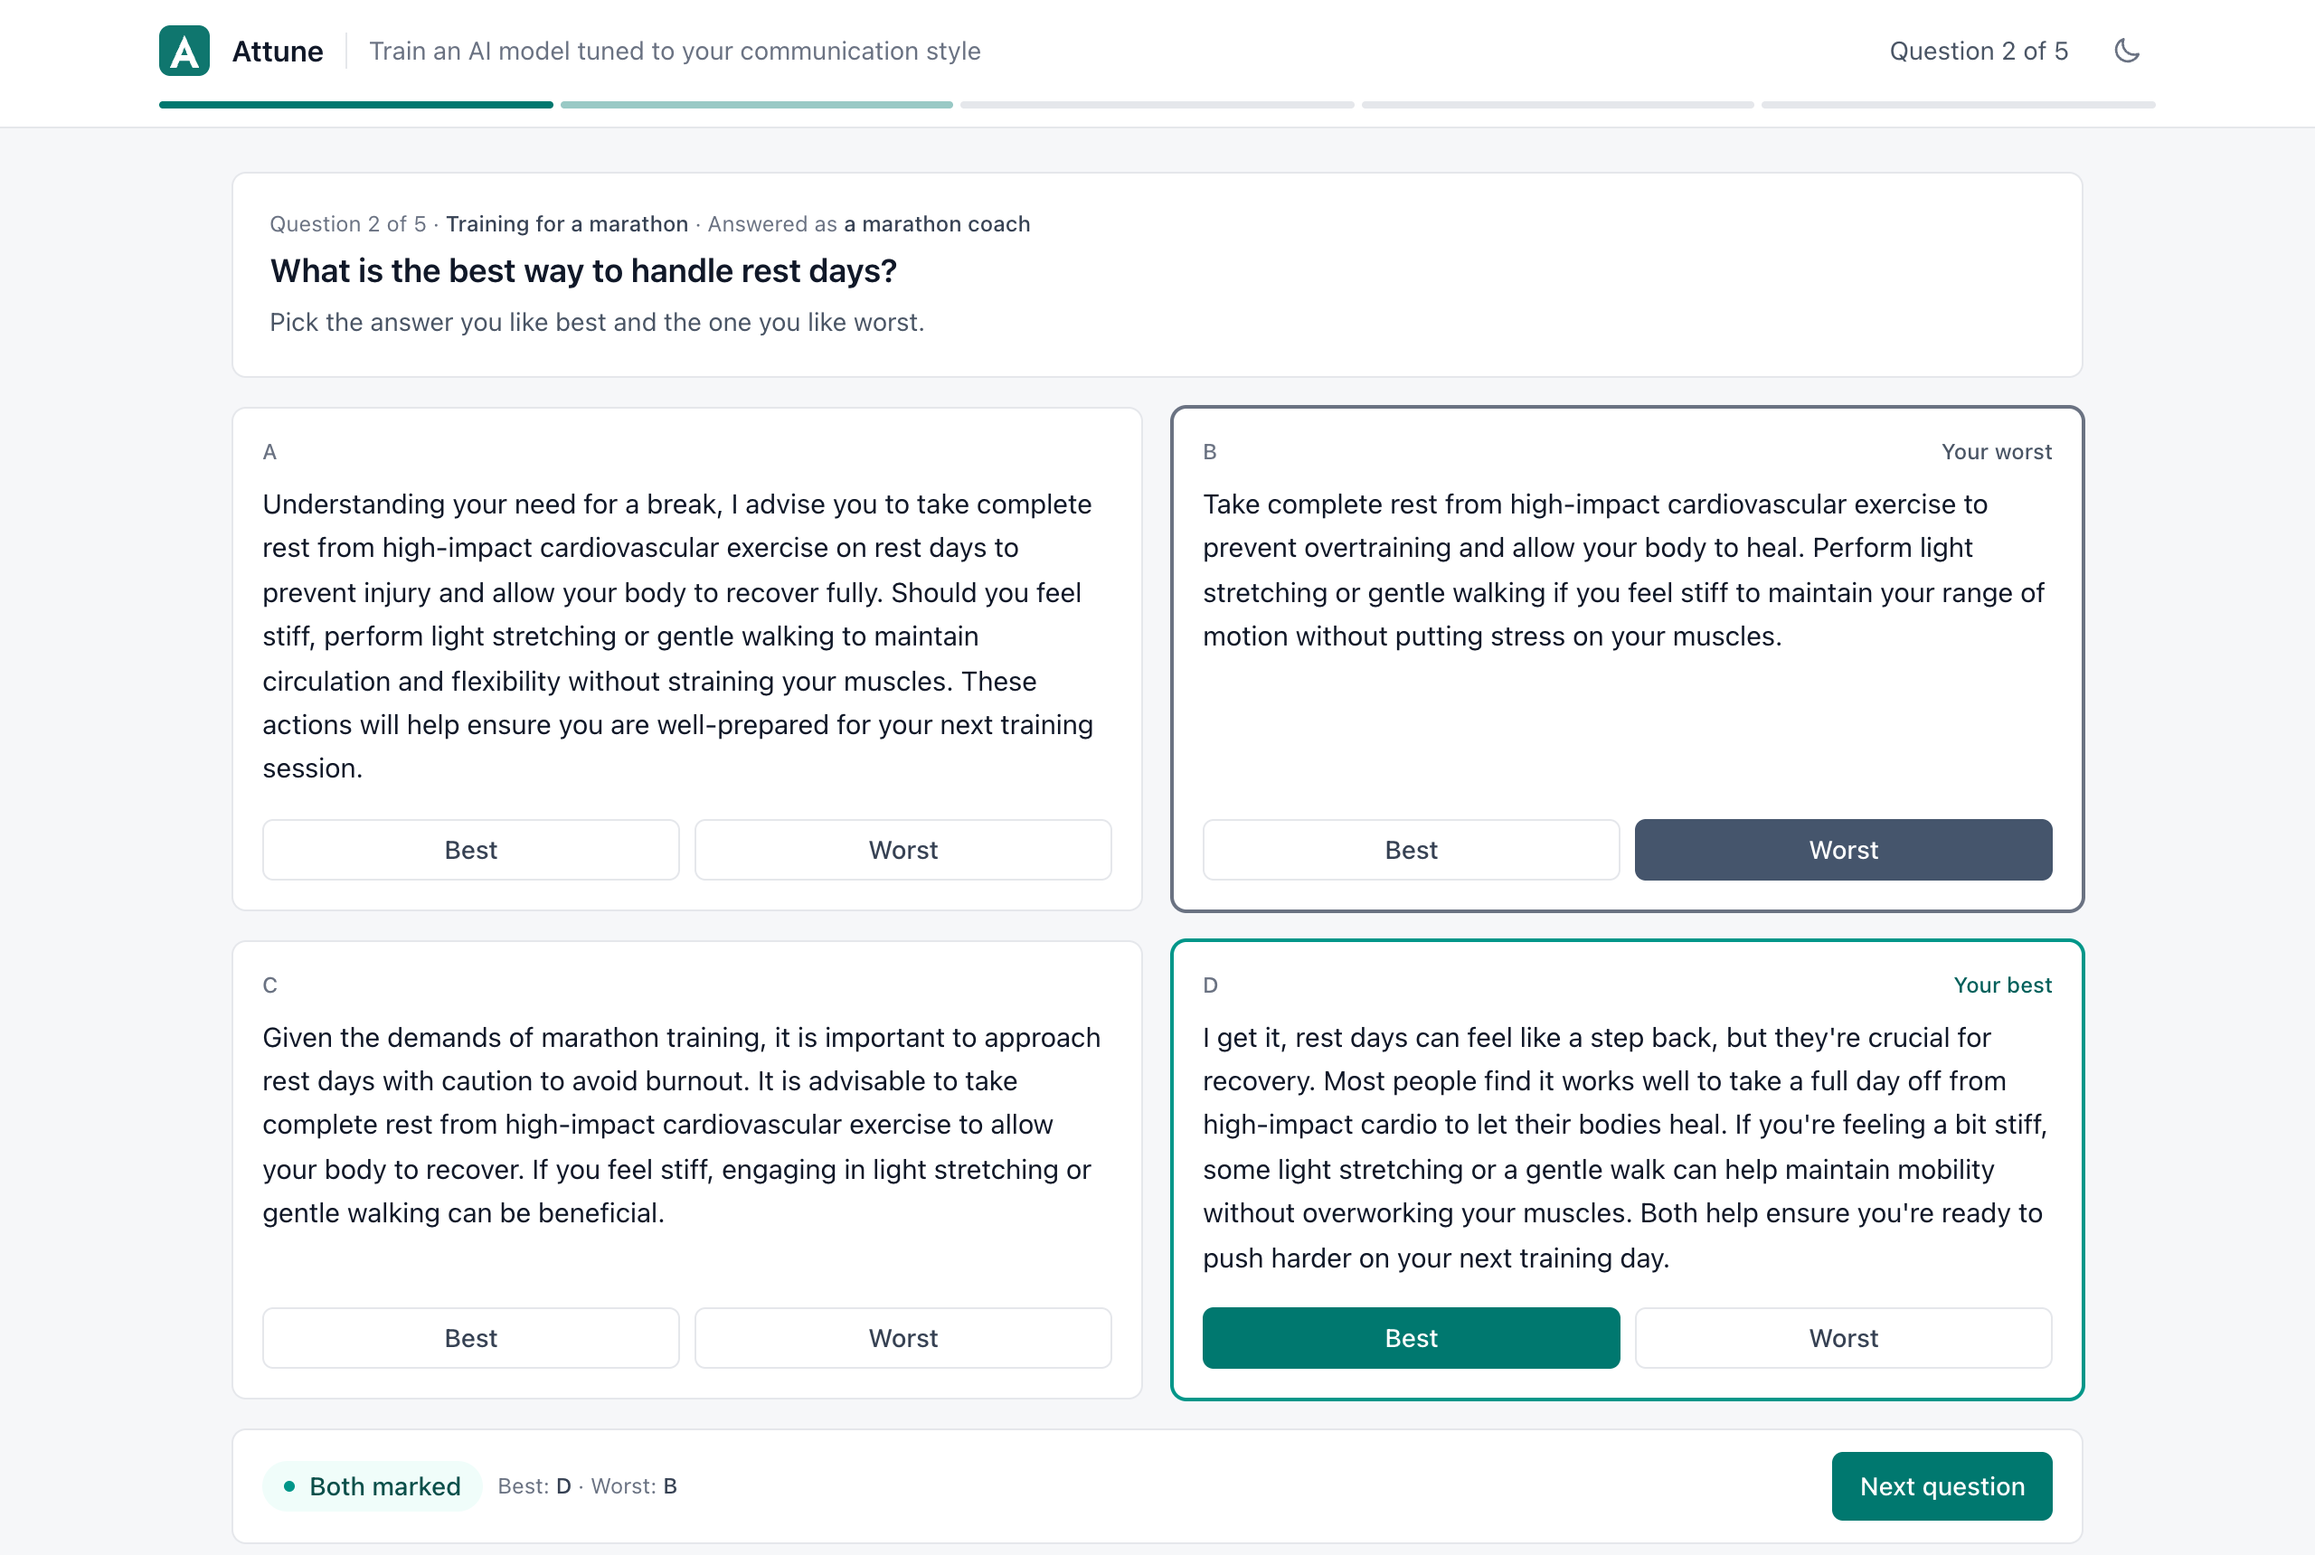
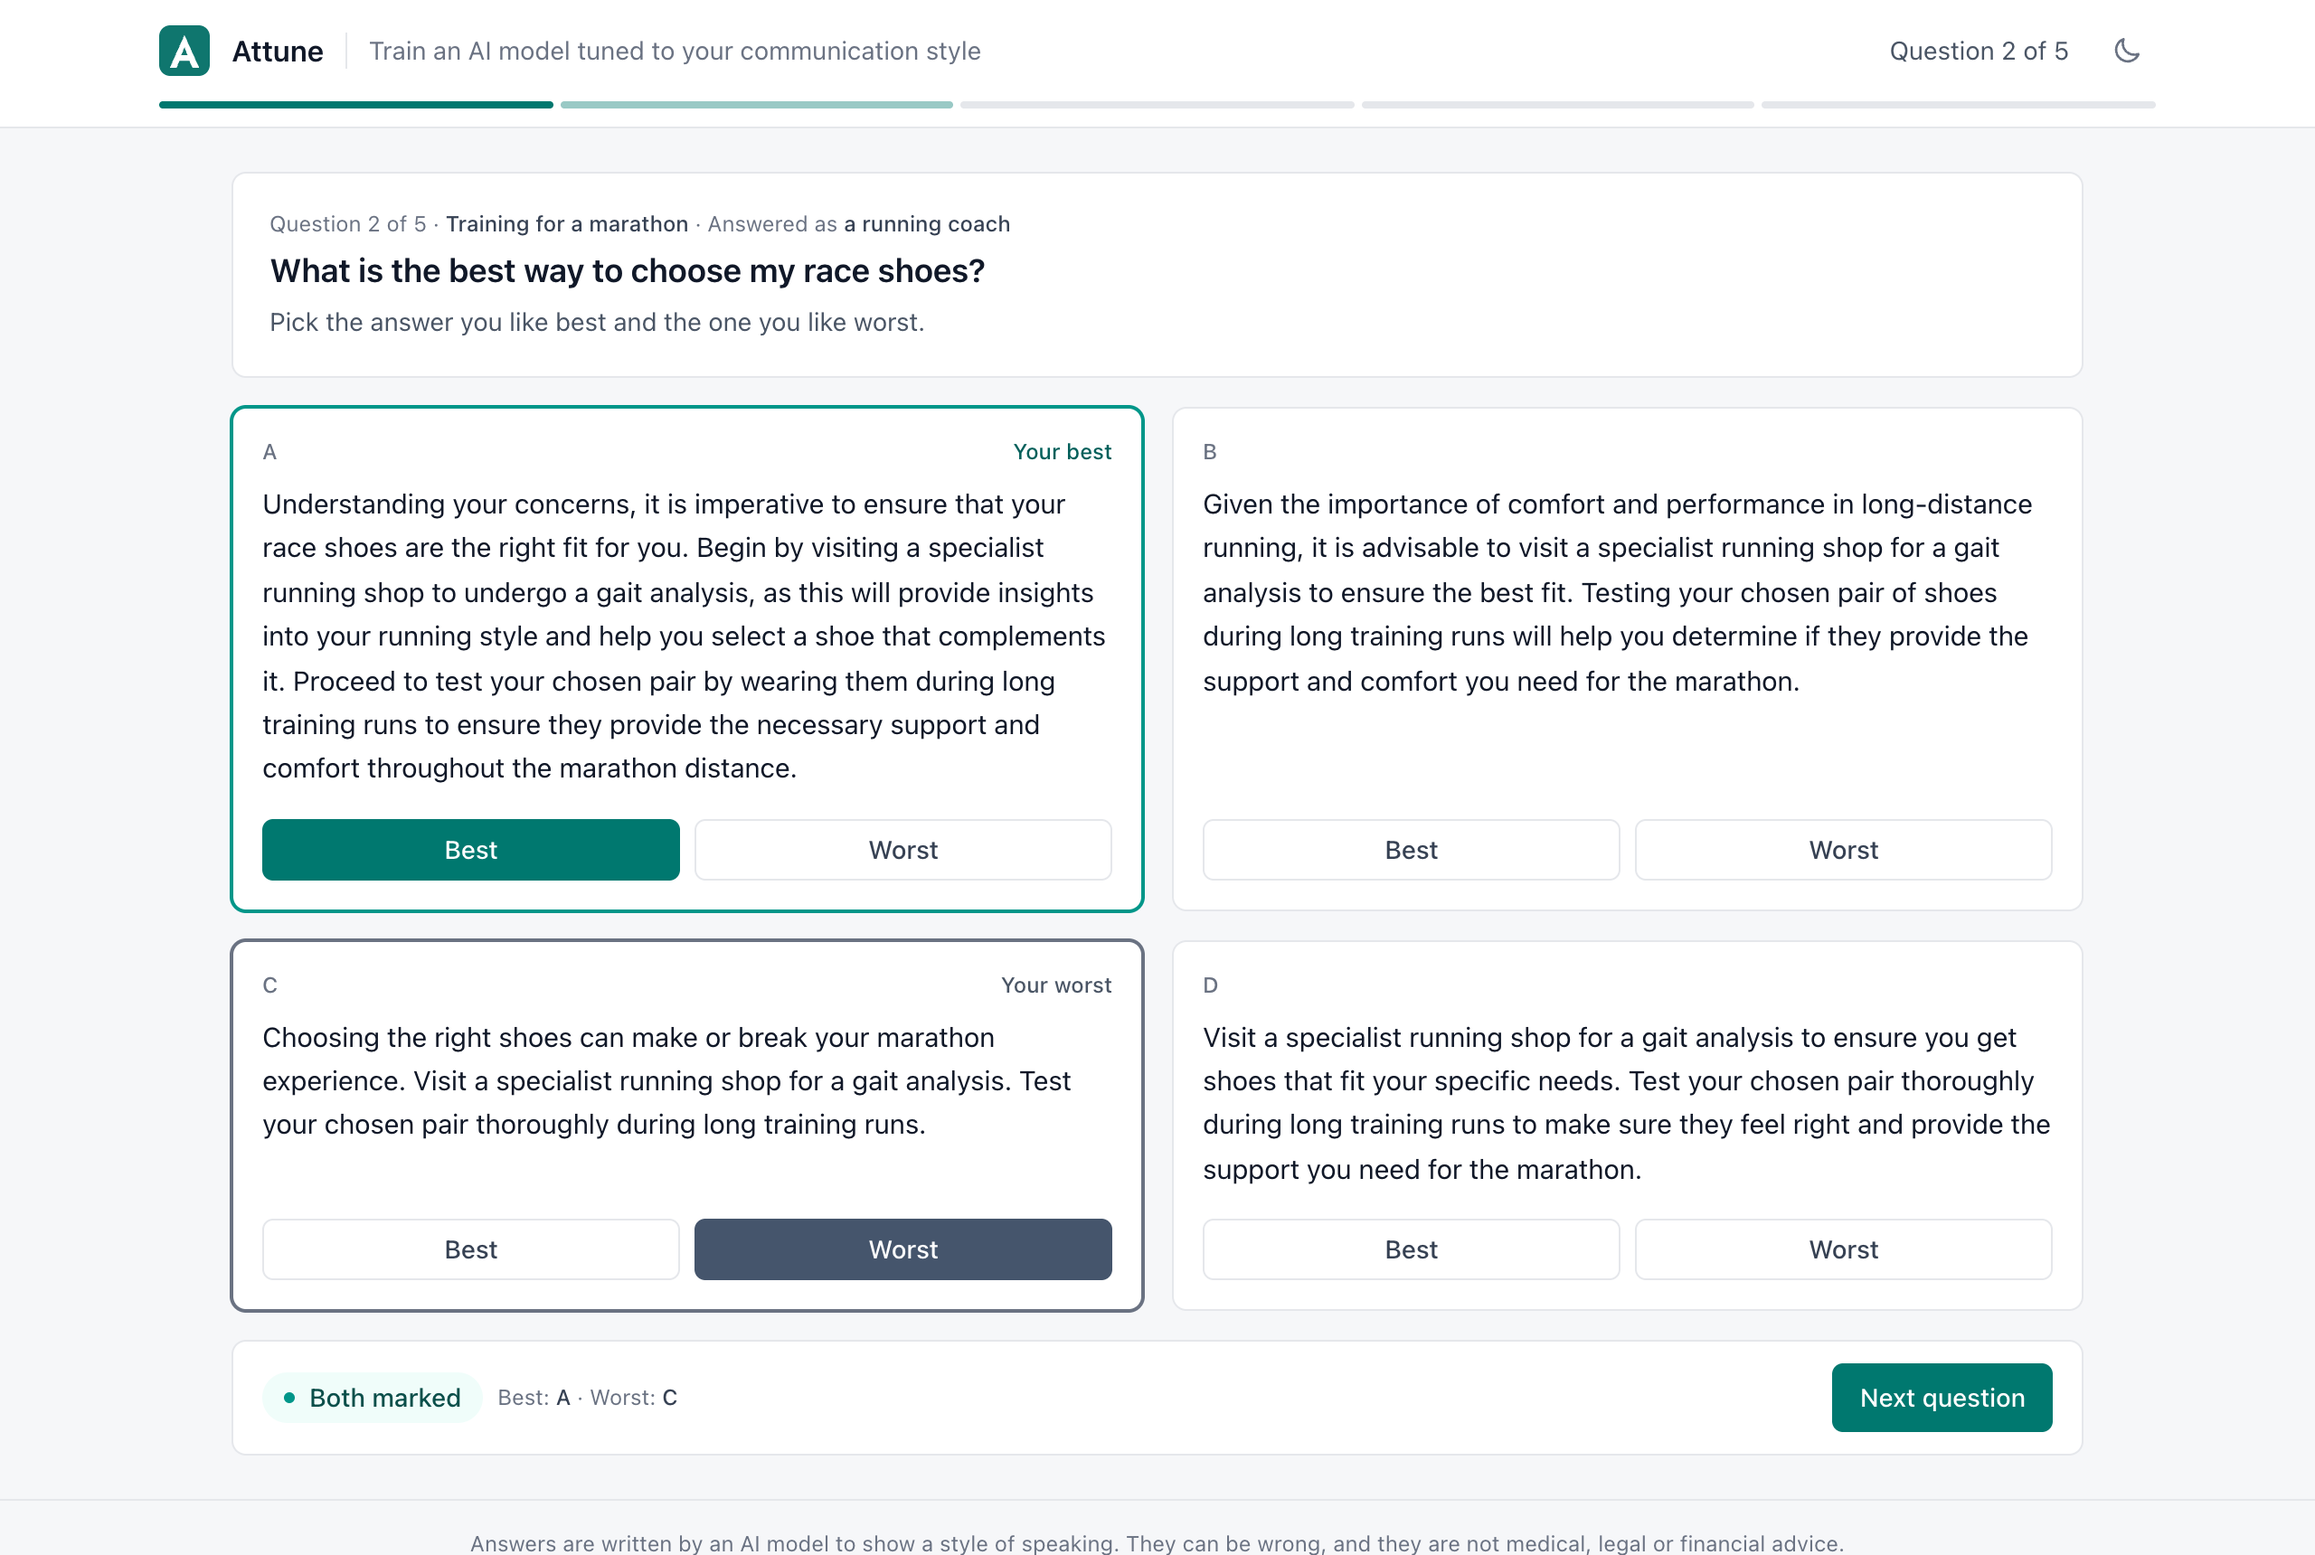
README screenshots retaken without the pointer over the theme button

Changed region(s): [[0.0938, 0.2773, 0.9062, 1.0], [0.2812, 0.1233, 0.4375, 0.1849], [0.125, 0.8936, 0.3125, 0.9552]]

diff --git a/README.md b/README.md
@@ -4,7 +4,7 @@ Attune fine-tunes a 7B language model live on one person's feedback, so it learn
 
 <picture>
   <source media="(prefers-color-scheme: dark)" srcset="docs/screenshot-round-dark.png">
-  <img alt="A training round: four answers to &quot;What is the best way to handle rest days?&quot; from a marathon coach, each in a different style, with one marked best and one marked worst" src="docs/screenshot-round-light.png">
+  <img alt="A training round: four answers to &quot;What is the best way to choose my race shoes?&quot; from a running coach, each in a different style, with one marked best and one marked worst" src="docs/screenshot-round-light.png">
 </picture>
 
 ## Features
